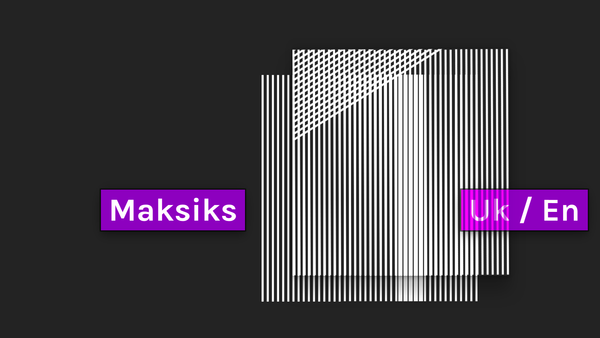
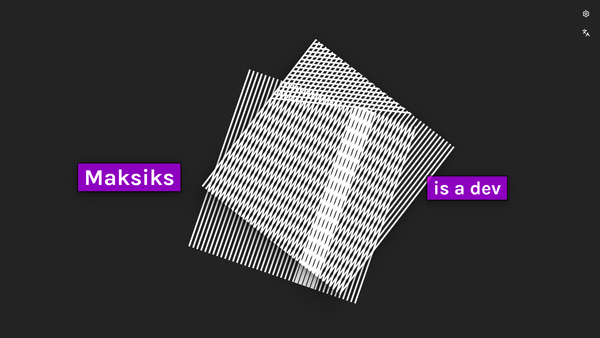
fix: oh damn devtools had a screenshot feature all this time, then why did i make that really cool script

diff --git a/todo.md b/todo.md
@@ -7,23 +7,25 @@
 - [ ] todo maybe: status effect and mana changes based on time of day
 - [ ] todo maybe: maybe make status scale in
 - [ ] todo maybe: ambient sounds
-- [ ] todo maybe: afterfx background for s2, trains passing by into portals or something 
+- [ ] todo maybe: afterfx background for s2, trains passing by into portals or something
 - [ ] todo maybe: maybe let the user catch the train
-- [ ] todo maybe: clicks for sounds? 
+- [ ] todo maybe: clicks for sounds?
 - [ ] todo maybe: train pushes mouse?
 - [ ] todo: DO NOT OVERDO IT
 - [ ] todo: take your time
 - [ ] fix: train and track artstyle inconsistency
-- [ ] todo fun pain: make the two branches separate in space (and not cover up the tree) 
+- [ ] todo fun pain: make the two branches separate in space (and not cover up the tree)
 - [ ] todo very fun: make one of the blurred hangies cover up a part of the tree because the colors just look too good
-- [ ] todo very: make the tree hangie section have #link-tree so i can link it, cause it's a literal link tree get it? (help)
+- [ ] todo very: make the tree hangie section have #link-tree so i can link it, cause it's a literal link tree get it? (
+  help)
 - [ ] todo high: amethyst sounds
 - [x] todo high: everything must have a little pencil near it so i can change whatever i want if im logged in
 - [ ] todo maybe: rain on the stats page?
 - [ ] todo maybe: leaf particles
 - [ ] todo maybe: memorize the stat values in the db in case the enemy api dies ; enemy??? sure caffeine hallucinations
 - [ ] todo maybe: multiple things hanging off the base of the hangie
-- [ ] todo maybe: make client ask for social values if fail (kinda whatever since there are definitely not 5000 people per hour visiting my lil site)
+- [ ] todo maybe: make client ask for social values if fail (kinda whatever since there are definitely not 5000 people
+  per hour visiting my lil site)
 - [x] fix very: random scroll snap in about???
 - [ ] todo maybe: flip icon color on selection in chimes
 - [ ] todo maybe: occasionally stronger wind
@@ -31,7 +33,8 @@
 - [ ] todo high: you have unposted changes!
 - [ ] todo high: implement all the settings
 - [ ] todo high: sounds off toast due to chrome policy if you relog
-- [ ] todo: replace moon thing with a less intrusive version of illusion (accessibility option should not provide new content)
+- [ ] todo: replace moon thing with a less intrusive version of illusion (accessibility option should not provide new
+  content)
 - [x] todo high: svg sprite sheet for icons, there's way too many
 - [ ] todo maybe: replace title with a proper tooltip in folds
 - [ ] todo maybe: add more to hackatime section
@@ -51,14 +54,21 @@
 - [ ] todo maybe: web seg sites unfold into photo reel rather than just one pic
 - [ ] todo: language rack somewhere
 - [ ] fix eventually: fix mobile linktree
-- [ ] fix eventually: fix web seg shadows being weird on a real phone ; it's the dynamic elems but i can't figure out how exactly
+- [ ] fix eventually: fix web seg shadows being weird on a real phone ; it's the dynamic elems but i can't figure out
+  how exactly
 - [ ] fix eventually: rewrite the web seg projects in japanese with more detail when my jp is better
 
 - [x] todo semi-prod: responsive
 - [x] todo semi-prod: translate everything
-- [ ] todo semi-prod: little end bit
+- [x] todo semi-prod: little end bit
 - [ ] todo semi-prod: linktree -> web sec animation
-- [ ] todo semi-prod: reduce linktree lag
+- [x] todo semi-prod: reduce linktree lag
+  ; from my testing the lags i often observe are purely from hmr refreshes spawning too much of something so not an
+  issue for a normal user except on phone, there maybe the limit of webgl contexts is lower? either way some chimes just
+  die or dont render there, it's not lag per se. so nothing to fix here, plus doesn't lag on my mom's igpu so it's good
+  to go probably
+- [ ] todo semi-prod: inconsistent annoying layout shift caused by chimes supposedly, possible css rather than js issue?
 - [ ] todo semi-prod: settings (including sounds)
-- [ ] todo semi-prod: update screenie
-- [ ] todo semi-prod: error page i suppose
+- [x] todo semi-prod: update this screenie
+- [ ] todo semi-prod: error page
+- [ ] todo semi-prod: diplomas
